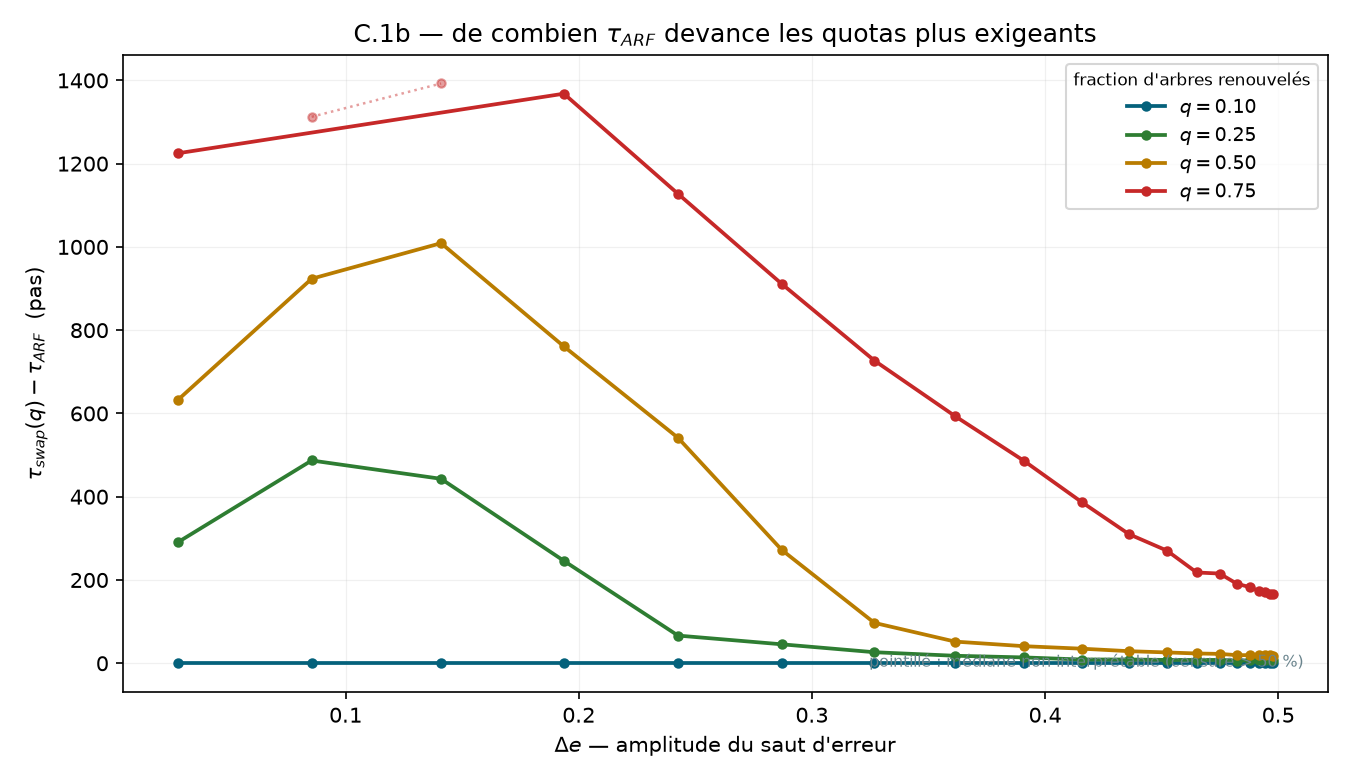
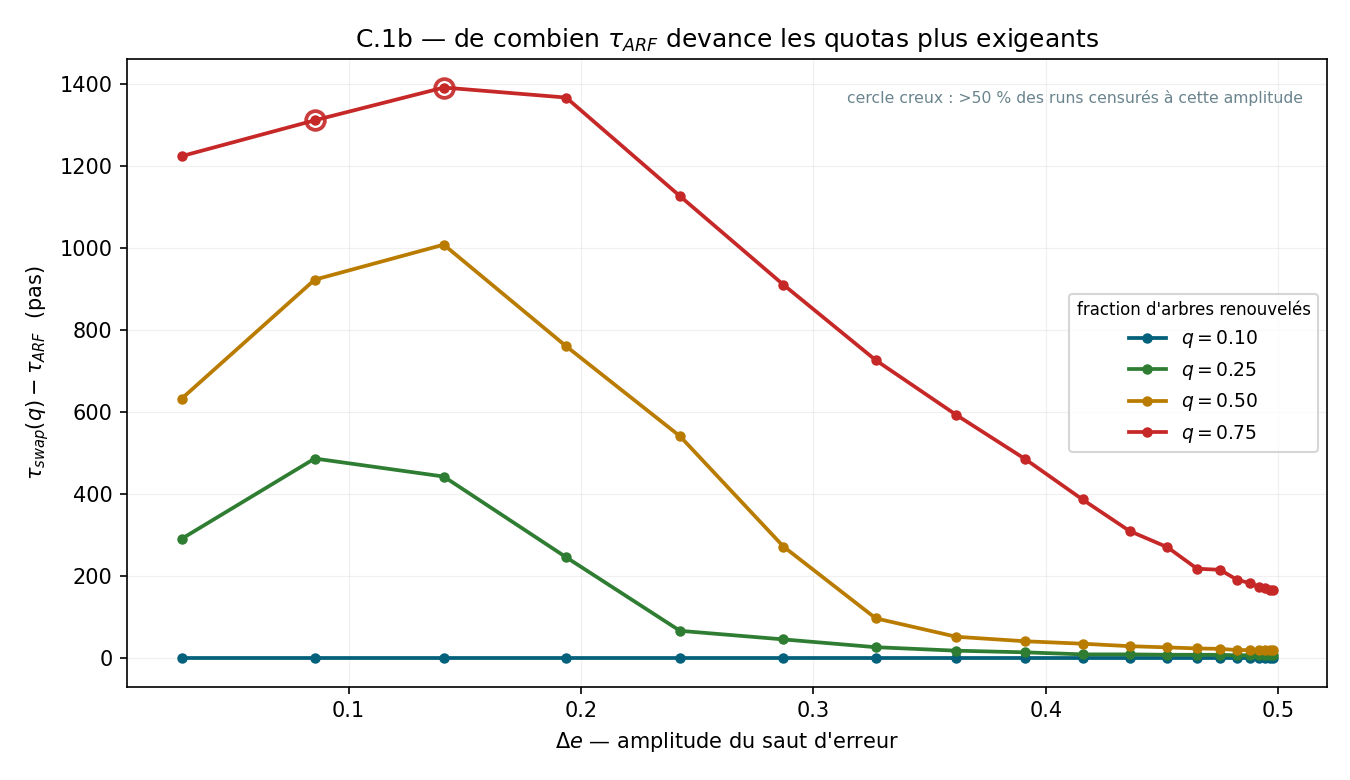
Fix orphan dotted-segment glitch in Fig_QC_ecarts (Ulysse's figure_ecarts)
For q=75%, the two amplitudes with >50% censoring (0.085, 0.141) were
plotted as a separate disconnected line segment, floating above the main
curve. Now plots one continuous line through all points and overlays the
unreliable ones with a hollow-circle marker instead. Also moved the
annotation from bottom-right (where it overlapped the converging curves)
to the empty top-right corner. Regenerated Fig_QC_ecarts_full.png from
the existing QCD_indicateurs_full.parquet, no resimulation needed.

diff --git a/04_experimentations/resultats_R2/scripts/analyse_QCD.py b/04_experimentations/resultats_R2/scripts/analyse_QCD.py
@@ -479,19 +479,22 @@ def figure_ecarts(df, tag):
         g = df.groupby('delta_e')
         med = g.apply(lambda x: np.nanmedian(x[col] - x['tau_arf']), include_groups=False)
         cens = g[f'censored_swap_{int(q * 100)}'].mean()
-        solid = cens <= 0.5
-        ax.plot(med.index[solid], med[solid], 'o-', color=c, lw=1.8, ms=4,
+        # une seule ligne continue -- eviter de tracer les points tres censures
+        # comme un second segment separe, qui se retrouve alors deconnecte du
+        # reste de la courbe (defaut visuel corrige le 08/09).
+        ax.plot(med.index, med.values, 'o-', color=c, lw=1.8, ms=4,
                 label=rf"$q = {q:.2f}$")
-        if (~solid).any():
-            ax.plot(med.index[~solid], med[~solid], 'o:', color=c, lw=1.2, ms=4,
-                    alpha=0.45)
+        heavy = cens > 0.5
+        if heavy.any():
+            ax.plot(med.index[heavy], med[heavy], 'o', color=c, ms=9,
+                    markerfacecolor='none', markeredgewidth=1.8, alpha=0.9)
     ax.set_xlabel(r"$\Delta e$ — amplitude du saut d'erreur")
     ax.set_ylabel(r"$\tau_{swap}(q) - \tau_{ARF}$  (pas)")
     ax.set_title(r"C.1b — de combien $\tau_{ARF}$ devance les quotas plus exigeants")
     ax.legend(fontsize=9, title="fraction d'arbres renouvelés", title_fontsize=8)
     ax.grid(alpha=0.18, lw=0.6)
-    ax.text(0.98, 0.04, "pointillé : médiane non interprétable (censure > 50 %)",
-            transform=ax.transAxes, ha='right', fontsize=7.5, color='#6A848D')
+    ax.text(0.98, 0.95, "cercle creux : >50 % des runs censurés à cette amplitude",
+            transform=ax.transAxes, ha='right', va='top', fontsize=7.5, color='#6A848D')
     fig.tight_layout()
     out = FIGURES_DIR / f"Fig_QC_ecarts_{tag}.png"
     fig.savefig(out, dpi=150)
